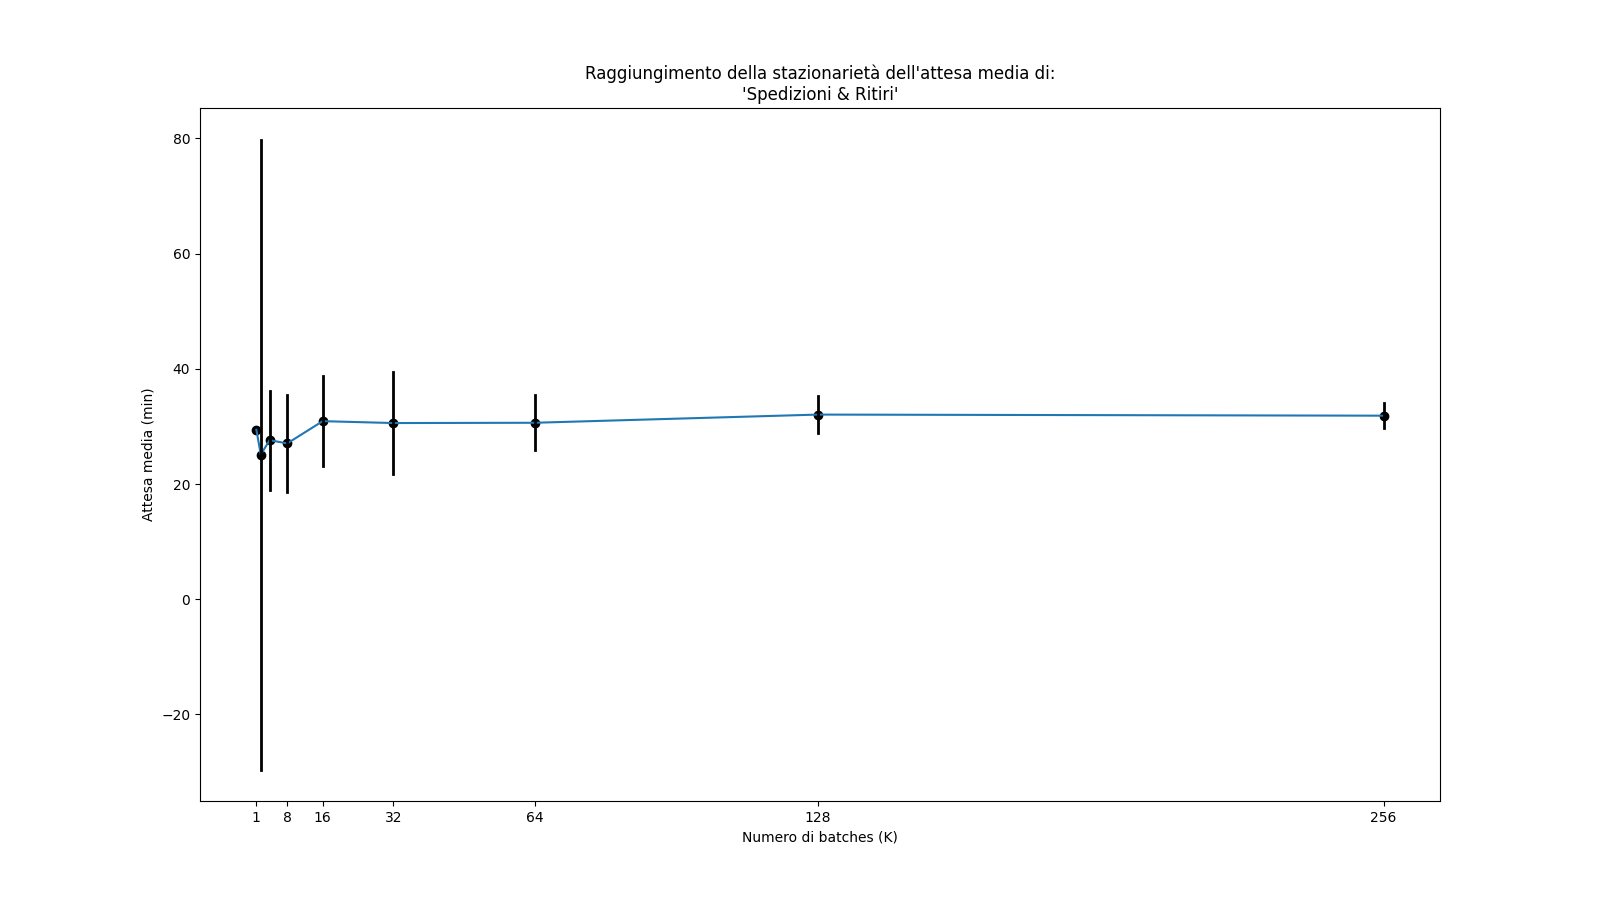
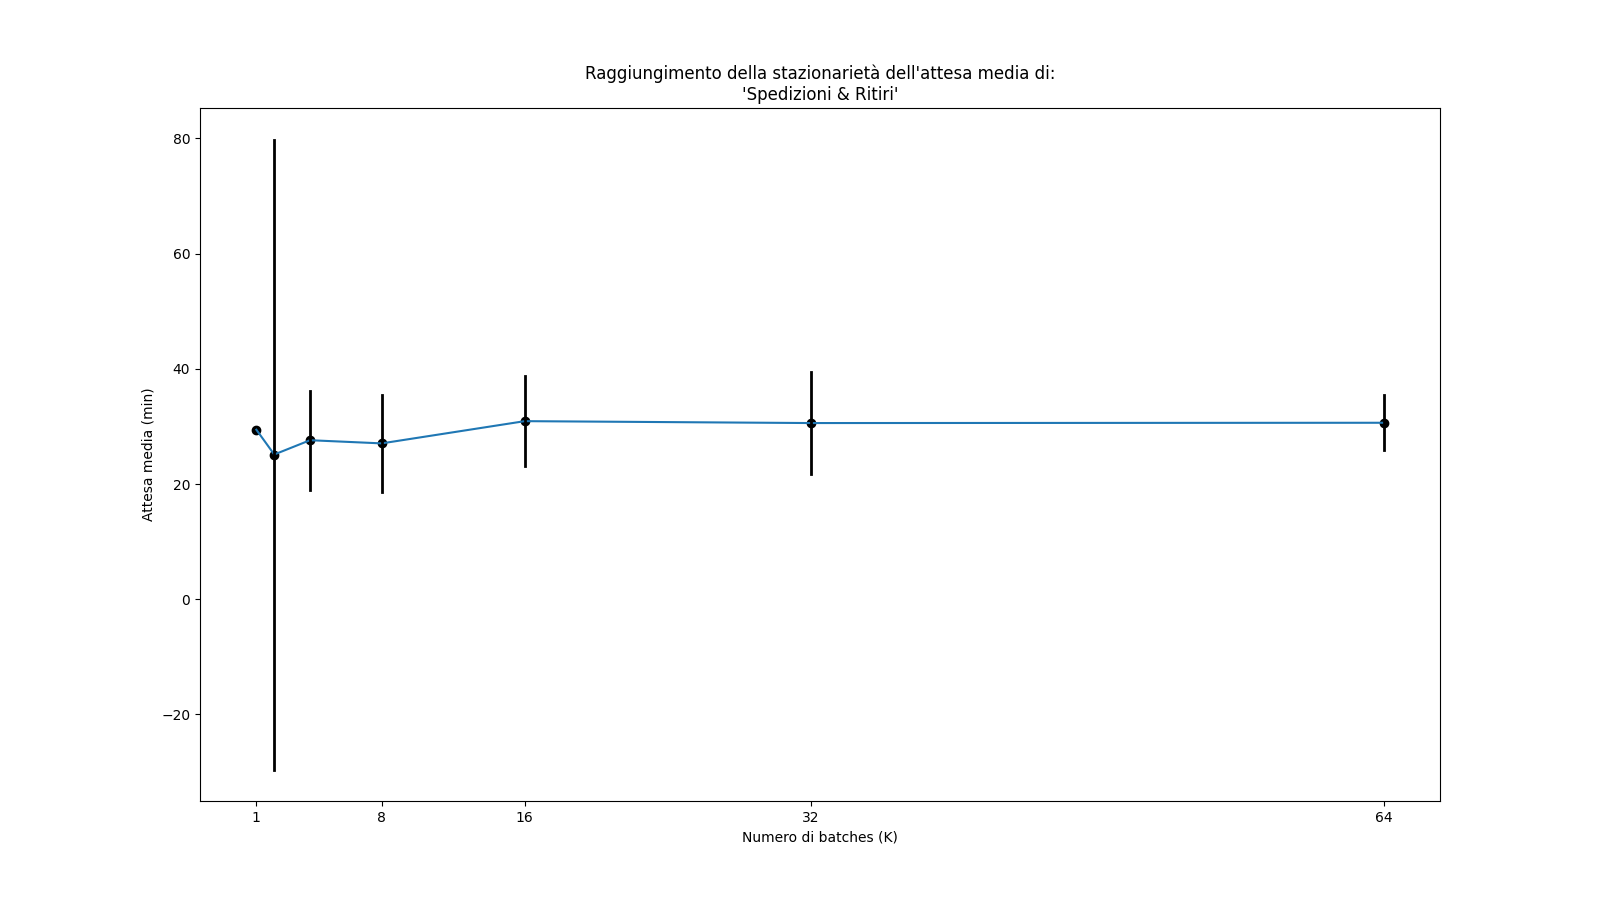
Corretti i grafici dello stazionario

diff --git a/src/plotter.py b/src/plotter.py
@@ -138,8 +138,8 @@ def plot_delay_t_stationary(type, show_interval=False):
 
 if __name__ == "__main__":
 
-    for i in range(6):
-        plot_delay_M(i)
+    # for i in range(6):
+    #     plot_delay_M(i)
 
     # for i in range(6):
     #     plot_delay_t_terminating(i, "day-from-empty", 60)
@@ -150,5 +150,5 @@ if __name__ == "__main__":
     # plot_delay_t_stationary('G')
     # plot_delay_t_stationary('D')
 
-    # plot_delay_t_stationary('G', show_interval=True)
-    # plot_delay_t_stationary('D', show_interval=True)
+    plot_delay_t_stationary('G', show_interval=True)
+    plot_delay_t_stationary('D', show_interval=True)
